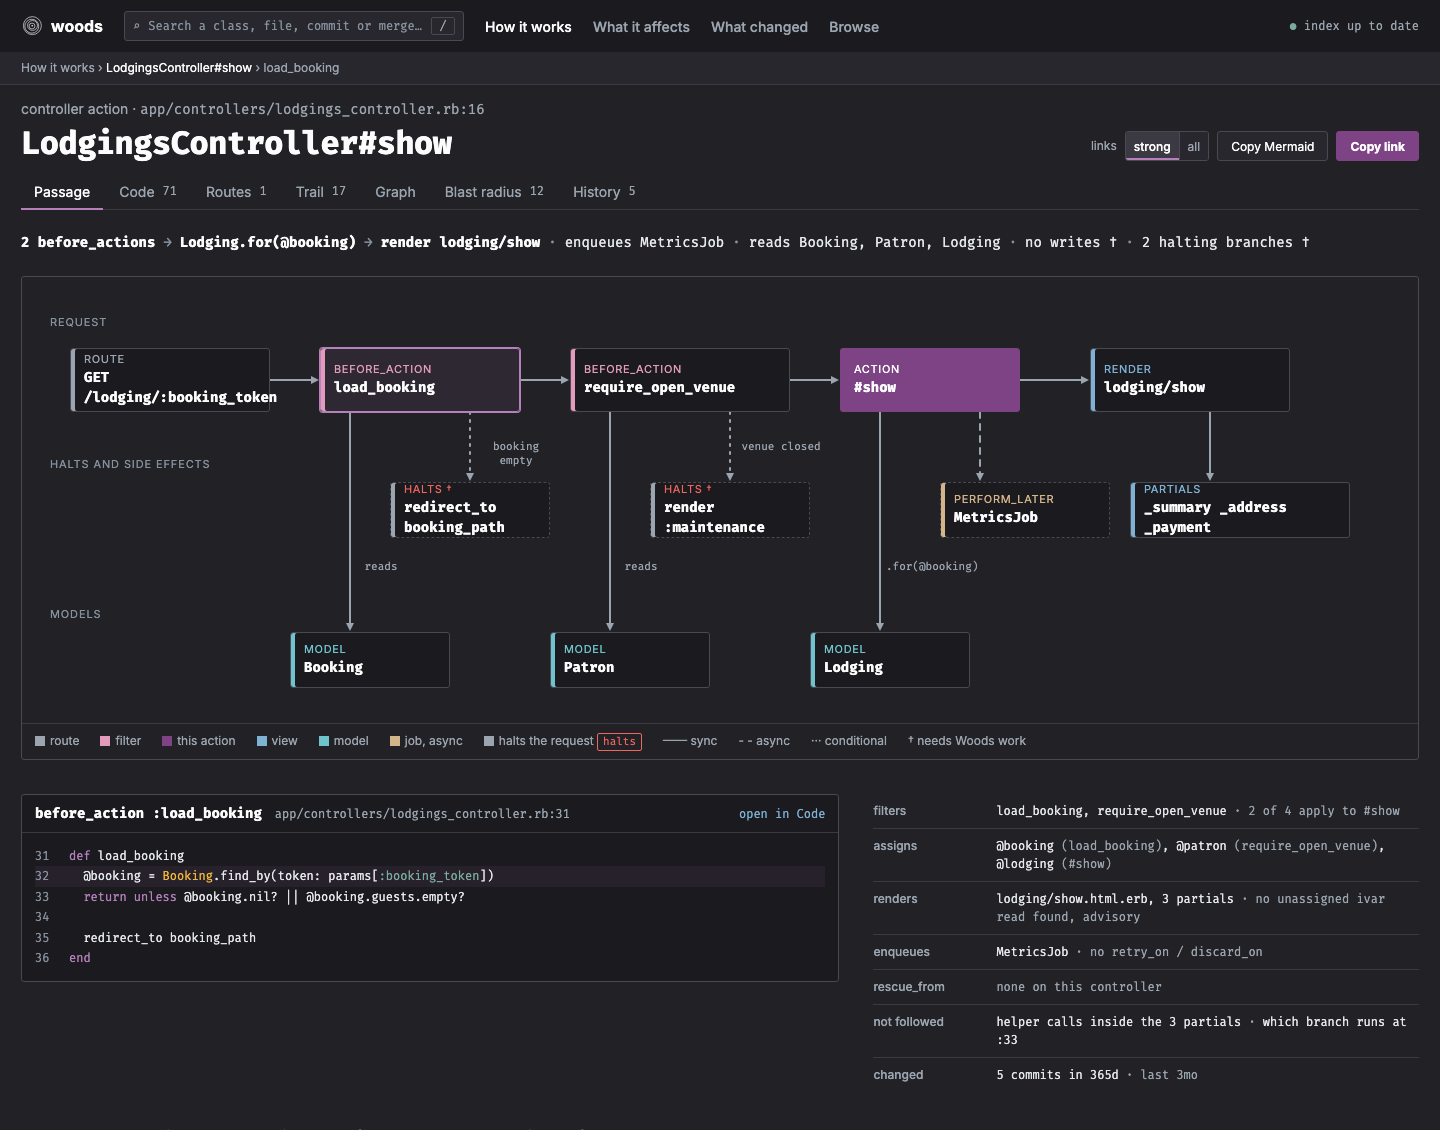
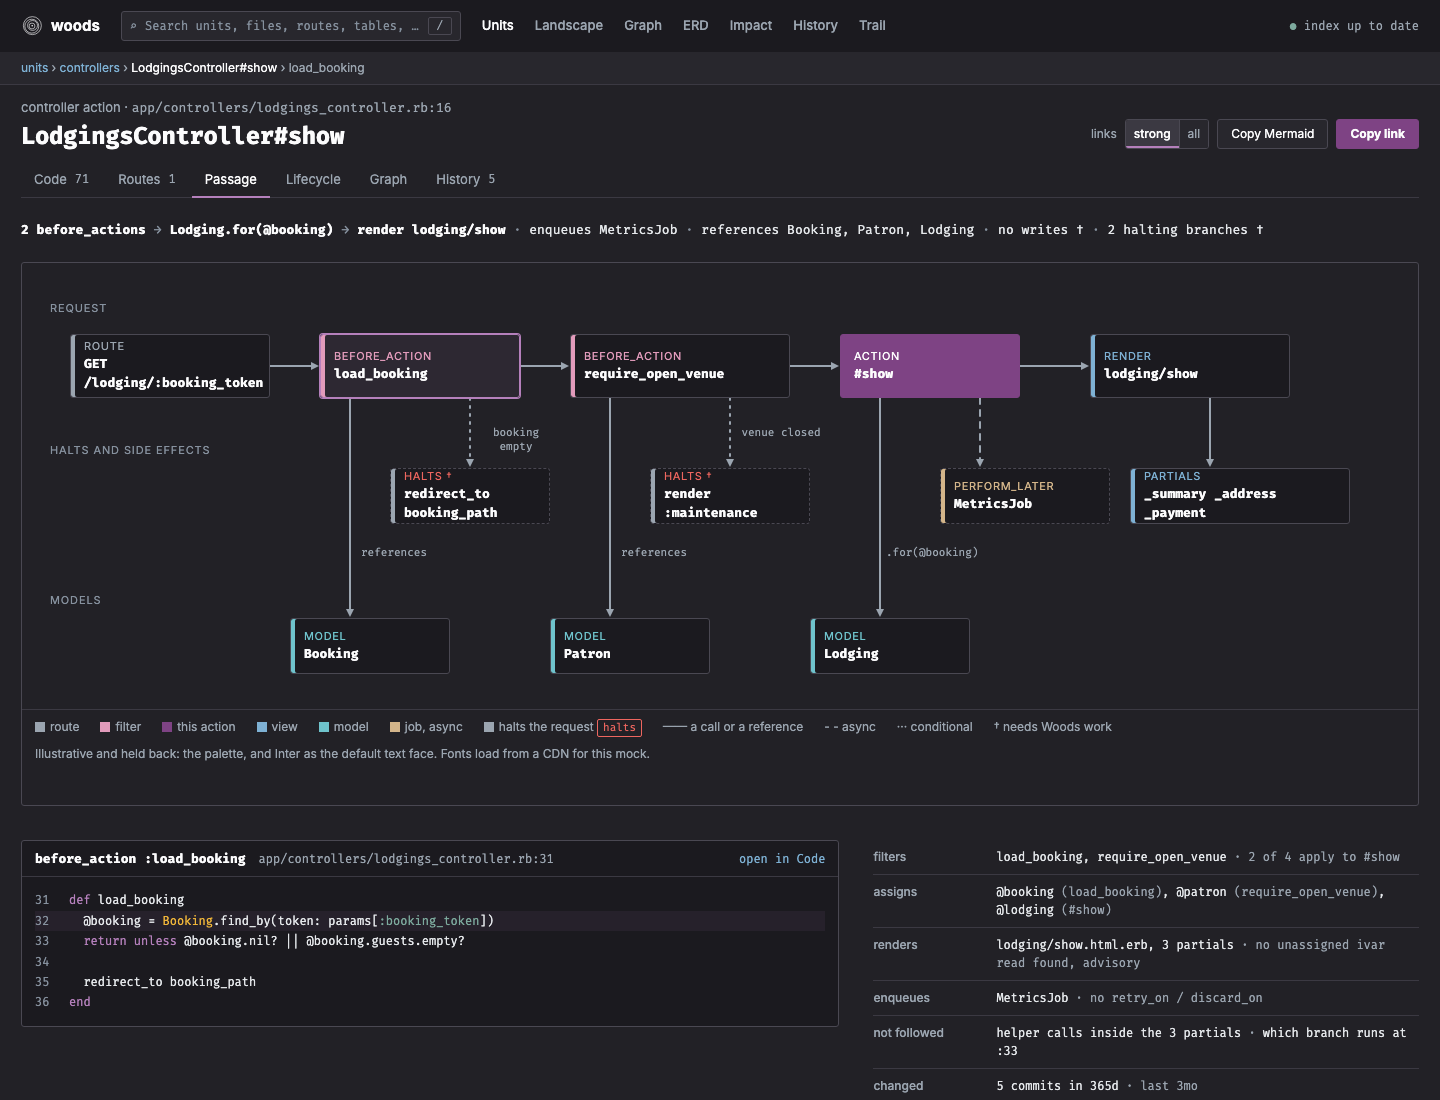
docs(design): label unpublished facts and keep today's nav on the Passage board
Applies the re-review: the callers row says no reference is recorded for
a call on a variable; rescue_from leaves the board; reads become
references; the legend says what is illustrative; the mock stylesheet no
longer overrides the size tokens.

diff --git a/docs/design/proposals/ux-review-2026-11/boards/passage.html b/docs/design/proposals/ux-review-2026-11/boards/passage.html
@@ -5,12 +5,12 @@
 <link rel="stylesheet" href="../review.css">
 <style>body{margin:0;background:#222126}</style></head>
 <body><div class="wm" data-theme="dark">
-<header class="bar"><a href="#" class="brand"><svg viewBox="0 0 120 120" width="22" height="22" fill="none" aria-hidden="true"><g stroke="currentColor" stroke-width="3.4"><circle cx="62" cy="58" r="49"/><circle cx="59" cy="61" r="38"/><circle cx="63" cy="57" r="27"/><circle cx="60" cy="60" r="16"/></g><circle cx="61" cy="59" r="4.4" fill="currentColor"/></svg>woods</a><label class="bar-search"><span aria-hidden="true">⌕</span><span class="q">Search a class, file, commit or merged PR</span><span class="kbd">/</span></label><nav aria-label="Primary"><a href="#" aria-current="page">How it works</a><a href="#">What it affects</a><a href="#">What changed</a><a href="#">Browse</a></nav><span class="bar-fresh"><span><span class="fresh">●</span><span class="w"> index up to date</span></span></span></header>
-<div class="crumbs"><span>How it works › <span class="bright">LodgingsController#show</span> › load_booking</span></div>
+<header class="bar"><a href="#" class="brand"><svg viewBox="0 0 120 120" width="22" height="22" fill="none" aria-hidden="true"><g stroke="currentColor" stroke-width="3.4"><circle cx="62" cy="58" r="49"/><circle cx="59" cy="61" r="38"/><circle cx="63" cy="57" r="27"/><circle cx="60" cy="60" r="16"/></g><circle cx="61" cy="59" r="4.4" fill="currentColor"/></svg>woods</a><label class="bar-search"><span aria-hidden="true">⌕</span><span class="q">Search units, files, routes, tables, code</span><span class="kbd">/</span></label><nav aria-label="Primary"><a href="#" aria-current="page">Units</a><a href="#">Landscape</a><a href="#">Graph</a><a href="#">ERD</a><a href="#">Impact</a><a href="#">History</a><a href="#">Trail</a></nav><span class="bar-fresh"><span><span class="fresh">●</span><span class="w"> index up to date</span></span></span></header>
+<div class="crumbs"><span><a href="#">units</a> › <a href="#">controllers</a> › <span class="bright">LodgingsController#show</span> › load_booking</span></div>
 <div class="ident"><div><p class="ctx">controller action · <span class="id">app/controllers/lodgings_controller.rb:16</span></p><h1 class="t1"><span class="subj id">LodgingsController#show</span></h1></div><div class="ctl"><span class="lbl">links</span><span class="seg" role="group" aria-label="links"><button type="button" aria-pressed="true">strong</button><button type="button" aria-pressed="false">all</button></span><button class="btn" type="button">Copy Mermaid</button><button class="btn primary" type="button">Copy link</button></div></div>
-<div class="tabs page-tabs" role="tablist"><button class="tab" role="tab" type="button" aria-selected="true">Passage</button><button class="tab" role="tab" type="button" aria-selected="false">Code <span class="cnt">71</span></button><button class="tab" role="tab" type="button" aria-selected="false">Routes <span class="cnt">1</span></button><button class="tab" role="tab" type="button" aria-selected="false">Trail <span class="cnt">17</span></button><button class="tab" role="tab" type="button" aria-selected="false">Graph</button><button class="tab" role="tab" type="button" aria-selected="false">Blast radius <span class="cnt">12</span></button><button class="tab" role="tab" type="button" aria-selected="false">History <span class="cnt">5</span></button></div>
+<div class="tabs page-tabs" role="tablist"><button class="tab" role="tab" type="button" aria-selected="false">Code <span class="cnt">71</span></button><button class="tab" role="tab" type="button" aria-selected="false">Routes <span class="cnt">1</span></button><button class="tab" role="tab" type="button" aria-selected="true">Passage</button><button class="tab" role="tab" type="button" aria-selected="false">Lifecycle</button><button class="tab" role="tab" type="button" aria-selected="false">Graph</button><button class="tab" role="tab" type="button" aria-selected="false">History <span class="cnt">5</span></button></div>
 <div class="r4">
-<p class="sum"><b>2 before_actions</b><span class="sep">→</span><b>Lodging.for(@booking)</b><span class="sep">→</span><b>render lodging/show</b><span class="sep">·</span>enqueues MetricsJob<span class="sep">·</span>reads Booking, Patron, Lodging<span class="sep">·</span>no writes †<span class="sep">·</span>2 halting branches †</p>
+<p class="sum"><b>2 before_actions</b><span class="sep">→</span><b>Lodging.for(@booking)</b><span class="sep">→</span><b>render lodging/show</b><span class="sep">·</span>enqueues MetricsJob<span class="sep">·</span>references Booking, Patron, Lodging<span class="sep">·</span>no writes †<span class="sep">·</span>2 halting branches †</p>
 <div class="dia"><div class="dhost" role="img" aria-label="Passage of LodgingsController#show. The route leads to before_action load_booking, which reads Booking and halts with a redirect when the booking is empty. Then before_action require_open_venue, which reads Patron and halts with a maintenance page when the venue is closed. Then the show action, which builds a Lodging from the booking and enqueues MetricsJob. Then render lodging/show with three partials." style="width:1340px;height:420px;margin:var(--s4) auto">
 <div class="lane" style="top:24px">request</div><div class="lane" style="top:166px">halts and side effects</div><div class="lane" style="top:316px">models</div>
 <svg aria-hidden="true" width="49" height="8" viewBox="0 0 49 8" preserveAspectRatio="none" style="position: absolute; left: 220px; top: 86px; width: 49px; height: 8px; overflow: visible; fill: none; stroke: #9BA5B0; stroke-width: 2; stroke-linecap: round; stroke-linejoin: round"><defs><marker id="dc-arrow-head-filled-1" orient="auto" markerWidth="5" markerHeight="5" refX="2" refY="2" overflow="visible"><path d="M0 0 L4 2 L0 4 Z" fill="#9BA5B0" stroke="none" style="stroke: none; fill: #9BA5B0; fill: context-stroke"/></marker></defs><path d="M 0 4 L 45 4" marker-end="url(#dc-arrow-head-filled-1)"></path></svg>
@@ -38,11 +38,12 @@
 <div class="dbox k-model " style="left:760px;top:342px;width:160px;height:56px"><span><span class="kd">model</span><b>Lodging</b></span></div>
 <div class="dlab" style="left:426px;top:150px;width:80px">booking empty</div>
 <div class="dlab" style="left:686px;top:150px;width:90px">venue closed</div>
-<div class="dlab" style="left:306px;top:270px;width:50px">reads</div>
-<div class="dlab" style="left:566px;top:270px;width:50px">reads</div>
+<div class="dlab" style="left:306px;top:270px;width:76px">references</div>
+<div class="dlab" style="left:566px;top:270px;width:76px">references</div>
 <div class="dlab" style="left:836px;top:270px;width:50px">.for(@booking)</div>
 </div>
-<div class="keys"><span class="k-route"><i></i>route</span><span class="k-filter"><i></i>filter</span><span style="--kc:var(--b-purple)"><i></i>this action</span><span class="k-view"><i></i>view</span><span class="k-model"><i></i>model</span><span class="k-job"><i></i>job, async</span><span class="k-exit"><i></i>halts the request <span class="sv" style="--sc:var(--l-red)">halts</span></span><span>── sync</span><span>- - async</span><span>··· conditional</span><span>† needs Woods work</span></div></div>
+<div class="keys"><span class="k-route"><i></i>route</span><span class="k-filter"><i></i>filter</span><span style="--kc:var(--b-purple)"><i></i>this action</span><span class="k-view"><i></i>view</span><span class="k-model"><i></i>model</span><span class="k-job"><i></i>job, async</span><span class="k-exit"><i></i>halts the request <span class="sv" style="--sc:var(--l-red)">halts</span></span><span>── a call or a reference</span><span>- - async</span><span>··· conditional</span><span>† needs Woods work</span></div>
+<div class="keys two"><span>Illustrative and held back: the palette, and Inter as the default text face. Fonts load from a CDN for this mock.</span></div></div>
 
 <div class="under">
 <div class="src"><header><b>before_action :load_booking</b><span>app/controllers/lodgings_controller.rb:31</span><a href="#">open in Code</a></header>
@@ -57,7 +58,6 @@
 <tr><th>assigns</th><td>@booking <span class="q">(load_booking)</span>, @patron <span class="q">(require_open_venue)</span>, @lodging <span class="q">(#show)</span></td></tr>
 <tr><th>renders</th><td>lodging/show.html.erb, 3 partials <span class="q">· no unassigned ivar read found, advisory</span></td></tr>
 <tr><th>enqueues</th><td>MetricsJob <span class="q">· no retry_on / discard_on</span></td></tr>
-<tr><th>rescue_from</th><td><span class="q">none on this controller</span></td></tr>
 <tr><th>not followed</th><td>helper calls inside the 3 partials <span class="q">· </span>which branch runs at :33</td></tr>
 <tr><th>changed</th><td>5 commits in 365d <span class="q">· last 3mo</span></td></tr>
 </table>

diff --git a/docs/design/proposals/ux-review-2026-11/review.css b/docs/design/proposals/ux-review-2026-11/review.css
@@ -50,8 +50,7 @@
 /* ===== spike: system-level changes 1 to 4, plus nav, nesting and status ===== */
 /* 1. Inter is the default; mono is the exception */
 .wm{font-family:var(--ff-ui);
-/* 2. stretched scale: 12 / 14 / 16 / 20 / 32 */
-  --fs-11:12px; --fs-12:12px; --fs-13:14px; --fs-15:16px; --fs-18:20px; --fs-24:32px; line-height:1.5}
+  line-height:1.5}
 .wm .id,.wm .mono,.wm code,.wm .sub,.wm .cnt,.wm .kbd,.wm .tbl td.id,.wm .hb .v,.wm .bar-fresh,.wm .dbox .num{font-family:var(--ff-data)}
 .wm .tbl td,.wm .tbl th,.wm .crumbs,.wm .bar-search{font-family:var(--ff-ui)}
 .wm .t1{letter-spacing:-.015em;line-height:1.1}

diff --git a/docs/design/proposals/ux-review-2026-11/README.md b/docs/design/proposals/ux-review-2026-11/README.md
@@ -41,7 +41,9 @@ On the board, `†` marks anything Woods does not publish as a fact today.
 |---|---|
 | Filters that apply to an action, templates rendered, jobs enqueued | Published today |
 | Halting branches, and whether an action writes | Needs Woods work. Marked `†` on the board |
-| Callers of one method | Known for a call written on a constant (`Lodging.available`, `PricingService.call`): the reference records the method called, and the map already counts callers per method. Not known for a call on a variable (`booking.price`): Woods does not know the variable's class. Those are listed as unknown |
+| `rescue_from` on a controller | Not published. Woods publishes rescue facts for jobs and services only, so the board leaves it out |
+| Models an action touches | Woods knows references, not reads. The board says "references" |
+| Callers of one method | Known for a call written on a constant (`Lodging.available`, `PricingService.call`): the reference records the method called, and the map already counts callers per method. Callers are not known for a call on a variable (`booking.price`): Woods does not know the variable's class, and records no reference for it. Listing such calls as unknown needs Woods work |
 | Changed methods in a pull request | The data exists; the join from changed lines to method line ranges is not built |
 | Units grouped by part of the product | Feasible from namespace and directory. The grouping is whatever those yield, or a configured mapping |
 | Who knows an area | Recent commit authors. Woods stores author names; no ownership source is read |
@@ -54,13 +56,16 @@ a pull request head took 11 s and the comparison under 3 s.
 ## Not in this proposal
 
 These were explored in the same review and are held back. Each needs its own
-`needs-decision` issue before it returns.
+`needs-decision` issue before it returns. Those issues are drafted and not
+yet filed.
 
 - **Colour.** The board uses an extended palette to show unit kind. It is
   illustrative. No colour decision is proposed until the light and
   colour-vision themes exist. It touches D-10, D-11 and D-23.
-- **Typefaces and type scale.** D-12 and D-14.
+- **Typefaces and type scale.** D-12 and D-14. The board keeps the token
+  sizes and sets Inter as the default text face, which is illustrative.
 - **The landing page and the navigation labels.** FR-1 and `coverage.md`.
+  The board keeps today's navigation.
 - **Boards for Blast radius, Review and Diagnose.** They rest on method-level
   callers and pull request data that Woods does not supply yet.
 - **Diagram rendering.** The board is hand-placed boxes. D-21 requires Mermaid
